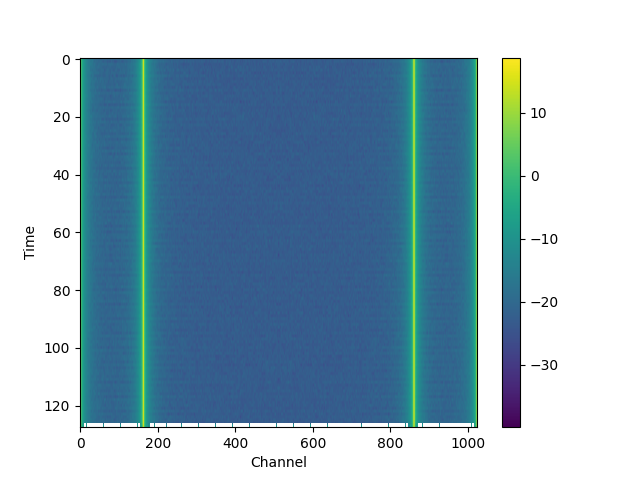
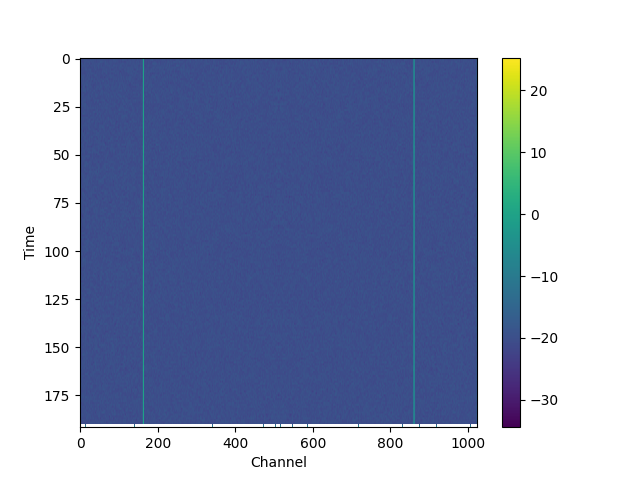
was able to increase M to 3

diff --git a/kernels/.ipynb_checkpoints/frontend-checkpoint.c b/kernels/.ipynb_checkpoints/frontend-checkpoint.c
@@ -1,3 +1,4 @@
+// This kernel implements the frontend for the PFB for M=3
 void frontend(float *in_buffer, float *in_buffer2, float *out_buffer, uint32_t n){
     const uint8_t vector_lanes = 16;
     const uint8_t vec_factor = 4;
@@ -7,26 +8,35 @@ void frontend(float *in_buffer, float *in_buffer2, float *out_buffer, uint32_t n
     ::aie::vector<float, vector_lanes> bufferA2;
     ::aie::vector<float, vector_lanes> bufferB1;
     ::aie::vector<float, vector_lanes> bufferB2;
+    ::aie::vector<float, vector_lanes> bufferC1;
+    ::aie::vector<float, vector_lanes> bufferC2;
     ::aie::vector<float, vector_lanes> opA;
     ::aie::vector<float, vector_lanes> opB;
+    ::aie::vector<float, vector_lanes> opC;
+    ::aie::vector<float, vector_lanes> tmp;
     ::aie::vector<float, vector_lanes> sum;
 
     // divide by vectorization factor (64)
     uint32_t loop_count = n >> vec_factor;
-    uint32_t half_count = loop_count >> 1;
-    uint32_t half = n >> 1;
+    uint32_t third_count = loop_count/3;
+    uint32_t third = n/3;
 
-    for(int i=0; i<half_count; i++) {
+    for(int i=0; i<third_count; i++) {
         // load 64 elements into the buffer
         bufferA1 = ::aie::load_v<vector_lanes>(in_buffer);
         bufferA2 = ::aie::load_v<vector_lanes>(in_buffer2);
-        bufferB1 = ::aie::load_v<vector_lanes>(in_buffer+half);
-        bufferB2 = ::aie::load_v<vector_lanes>(in_buffer2+half);
+        bufferB1 = ::aie::load_v<vector_lanes>(in_buffer+third);
+        bufferB2 = ::aie::load_v<vector_lanes>(in_buffer2+third);
+        bufferC1 = ::aie::load_v<vector_lanes>(in_buffer+(third<<1));
+        bufferC2 = ::aie::load_v<vector_lanes>(in_buffer2+(third<<1));
         
         opA = aie::mul(bufferA1, bufferA2);
         opB = aie::mul(bufferB1, bufferB2);
+        opC = aie::mul(bufferC1, bufferC2);
 
-        sum = aie::add(opA, opB);
+        tmp = aie::add(opA, opB);
+
+        sum = aie::add(tmp, opC);
         
         aie::store_v(out_buffer, sum);
     
@@ -35,23 +45,4 @@ void frontend(float *in_buffer, float *in_buffer2, float *out_buffer, uint32_t n
         in_buffer2 += vector_lanes;
         out_buffer += vector_lanes;
     }
-    // for(int i=0; i<loop_count; i++) {
-    //      // load 64 elements into the buffer
-    //     buffer = ::aie::load_v<vector_lanes>(in_buffer);
-    //     buffer2 = ::aie::load_v<vector_lanes>(in_buffer2);
-    //     if(i >= half) {
-    //         op1 = aie::mul(buffer, buffer2);
-    //         op2 = aie::load_v<vector_lanes>(out_buffer-half);
-    //         sum = aie::add(op1, op2); 
-    //     }
-    //     else {
-    //         sum = aie::mul(buffer, buffer2);
-    //         aie::store_v(out_buffer, sum);
-    //     }
-    
-    //      // We need to increment the buffers by 64 each iteration now
-    //     in_buffer += vector_lanes;
-    //     in_buffer2 += vector_lanes;
-    //     out_buffer += vector_lanes;
-    // }
 }

diff --git a/kernels/frontend.c b/kernels/frontend.c
@@ -1,3 +1,4 @@
+// This kernel implements the frontend for the PFB for M=3
 void frontend(float *in_buffer, float *in_buffer2, float *out_buffer, uint32_t n){
     const uint8_t vector_lanes = 16;
     const uint8_t vec_factor = 4;
@@ -7,26 +8,35 @@ void frontend(float *in_buffer, float *in_buffer2, float *out_buffer, uint32_t n
     ::aie::vector<float, vector_lanes> bufferA2;
     ::aie::vector<float, vector_lanes> bufferB1;
     ::aie::vector<float, vector_lanes> bufferB2;
+    ::aie::vector<float, vector_lanes> bufferC1;
+    ::aie::vector<float, vector_lanes> bufferC2;
     ::aie::vector<float, vector_lanes> opA;
     ::aie::vector<float, vector_lanes> opB;
+    ::aie::vector<float, vector_lanes> opC;
+    ::aie::vector<float, vector_lanes> tmp;
     ::aie::vector<float, vector_lanes> sum;
 
     // divide by vectorization factor (64)
     uint32_t loop_count = n >> vec_factor;
-    uint32_t half_count = loop_count >> 1;
-    uint32_t half = n >> 1;
+    uint32_t third_count = loop_count/3;
+    uint32_t third = n/3;
 
-    for(int i=0; i<half_count; i++) {
+    for(int i=0; i<third_count; i++) {
         // load 64 elements into the buffer
         bufferA1 = ::aie::load_v<vector_lanes>(in_buffer);
         bufferA2 = ::aie::load_v<vector_lanes>(in_buffer2);
-        bufferB1 = ::aie::load_v<vector_lanes>(in_buffer+half);
-        bufferB2 = ::aie::load_v<vector_lanes>(in_buffer2+half);
+        bufferB1 = ::aie::load_v<vector_lanes>(in_buffer+third);
+        bufferB2 = ::aie::load_v<vector_lanes>(in_buffer2+third);
+        bufferC1 = ::aie::load_v<vector_lanes>(in_buffer+(third<<1));
+        bufferC2 = ::aie::load_v<vector_lanes>(in_buffer2+(third<<1));
         
         opA = aie::mul(bufferA1, bufferA2);
         opB = aie::mul(bufferB1, bufferB2);
+        opC = aie::mul(bufferC1, bufferC2);
 
-        sum = aie::add(opA, opB);
+        tmp = aie::add(opA, opB);
+
+        sum = aie::add(tmp, opC);
         
         aie::store_v(out_buffer, sum);
     
@@ -35,23 +45,4 @@ void frontend(float *in_buffer, float *in_buffer2, float *out_buffer, uint32_t n
         in_buffer2 += vector_lanes;
         out_buffer += vector_lanes;
     }
-    // for(int i=0; i<loop_count; i++) {
-    //      // load 64 elements into the buffer
-    //     buffer = ::aie::load_v<vector_lanes>(in_buffer);
-    //     buffer2 = ::aie::load_v<vector_lanes>(in_buffer2);
-    //     if(i >= half) {
-    //         op1 = aie::mul(buffer, buffer2);
-    //         op2 = aie::load_v<vector_lanes>(out_buffer-half);
-    //         sum = aie::add(op1, op2); 
-    //     }
-    //     else {
-    //         sum = aie::mul(buffer, buffer2);
-    //         aie::store_v(out_buffer, sum);
-    //     }
-    
-    //      // We need to increment the buffers by 64 each iteration now
-    //     in_buffer += vector_lanes;
-    //     in_buffer2 += vector_lanes;
-    //     out_buffer += vector_lanes;
-    // }
 }
